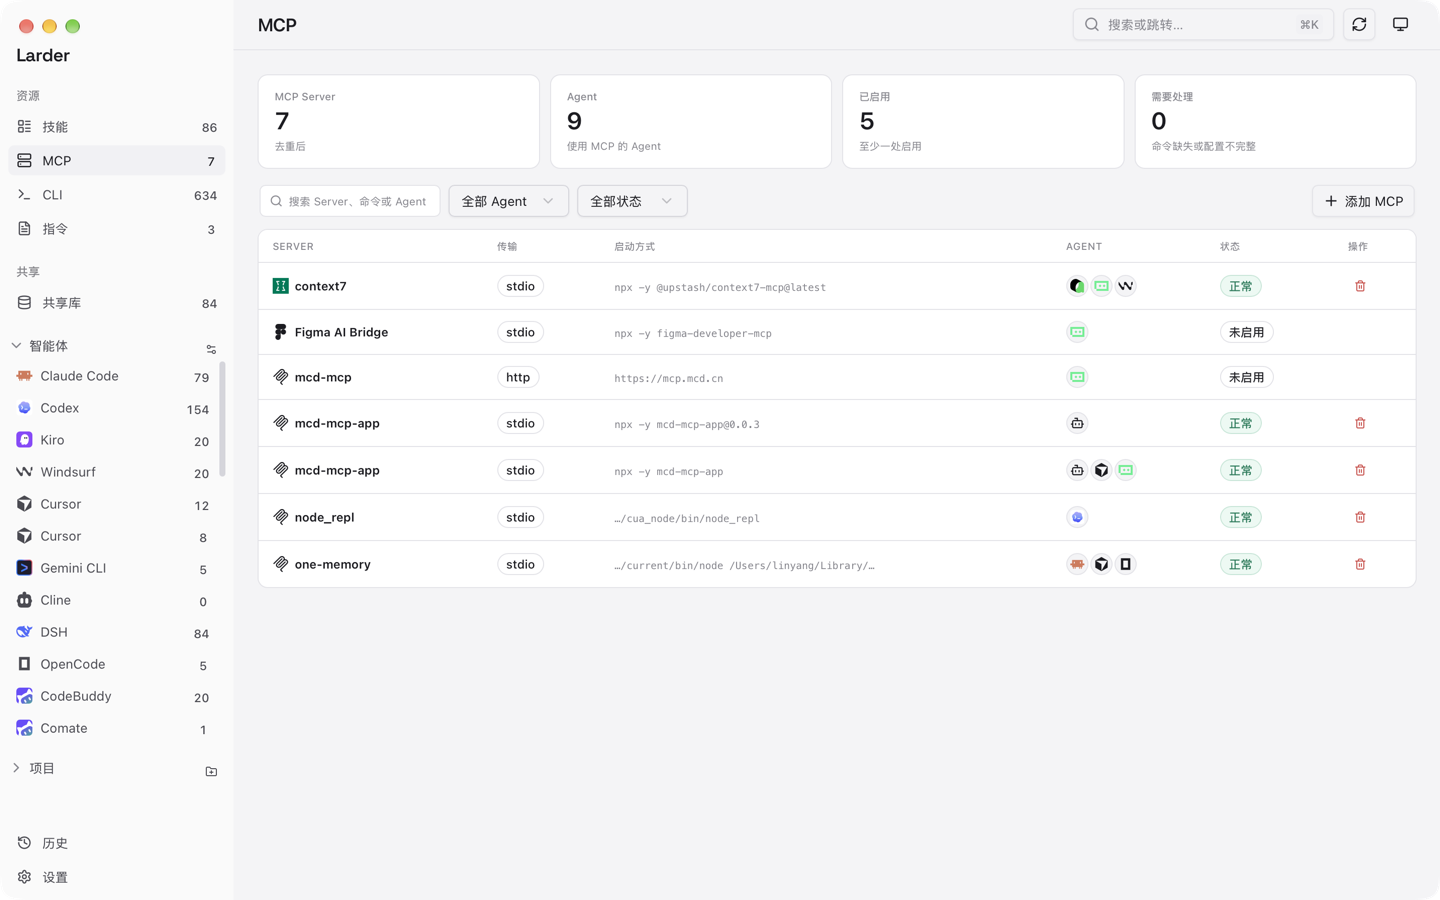
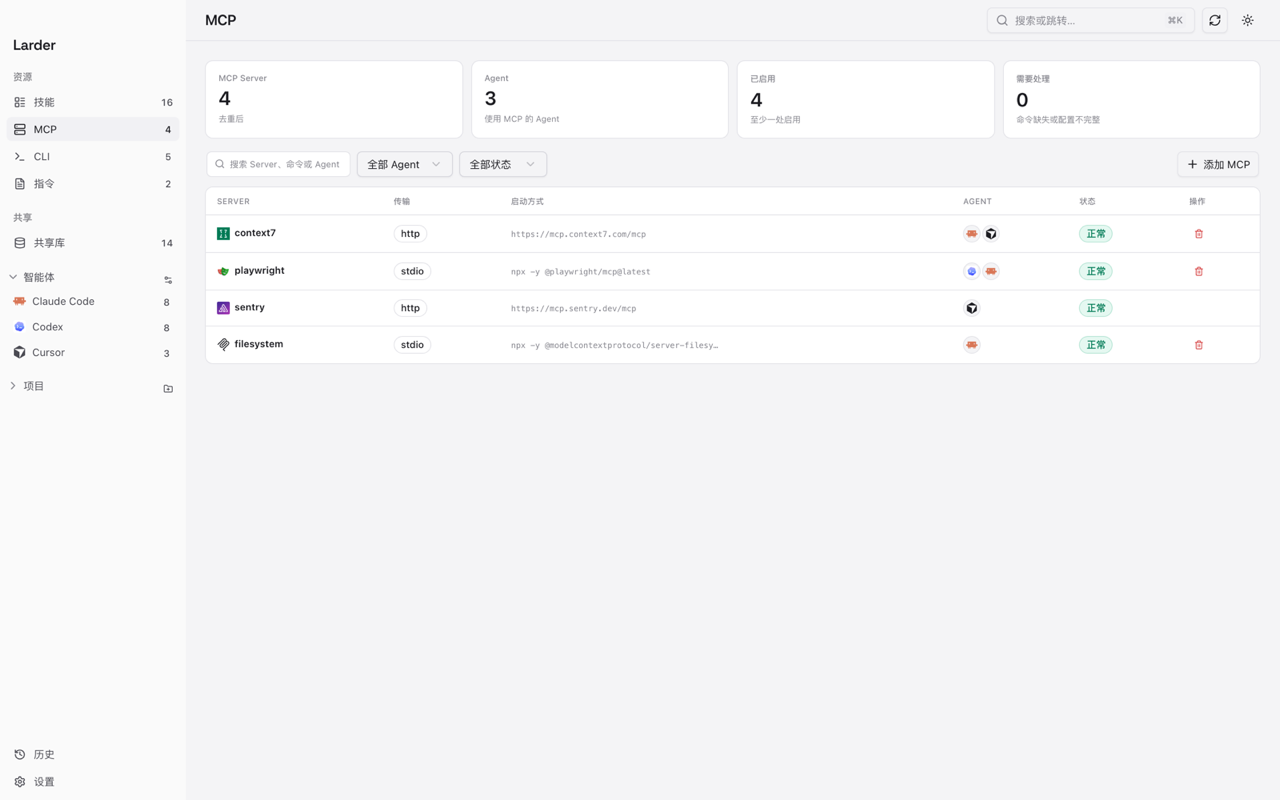
docs(readme): add compact screenshot gallery
Add English and Chinese screenshots for Skills, upstream review, Skill details, MCP, CLI, instructions, history and settings. Use a two-column gallery and keep social exports local-only.

diff --git a/README.md b/README.md
@@ -6,7 +6,7 @@
 
 Larder is a local-first desktop app for developers who work with multiple AI agents. It shows what is actually installed on your machine — Skills, MCP servers, CLI tools, and instruction files — and lets you manage them safely.
 
-![Skills overview](docs/screenshots/skills-cards-en.png)
+<p align="center"><img src="docs/screenshots/skills-cards-en.png" width="880" alt="Skills overview"></p>
 
 ## What it does
 
@@ -17,7 +17,58 @@ Larder is a local-first desktop app for developers who work with multiple AI age
 - **Projects** — see the Skills, MCP servers and instruction files that belong to a project in one place.
 - **Language** — switch between English and Chinese in Settings; the app follows the system language on first launch.
 
-![MCP overview](docs/screenshots/mcp-en.png)
+## Screenshots
+
+<table>
+<tr>
+<td width="50%" valign="top">
+<img src="docs/screenshots/skill-detail-en.png" alt="Skill detail" /><br />
+<strong>Skill detail</strong><br />
+Source, Agent visibility and the next safe action.
+</td>
+<td width="50%" valign="top">
+<img src="docs/screenshots/upstream-additions-en.png" alt="Review upstream additions" /><br />
+<strong>Review upstream additions</strong><br />
+See new Skills before installing one or a batch.
+</td>
+</tr>
+<tr>
+<td width="50%" valign="top">
+<img src="docs/screenshots/mcp-en.png" alt="MCP servers" /><br />
+<strong>MCP servers</strong><br />
+Transport, launch command, status and Agent visibility.
+</td>
+<td width="50%" valign="top">
+<img src="docs/screenshots/cli-en.png" alt="CLI tools" /><br />
+<strong>CLI tools</strong><br />
+Owners, PATH duplicates and available updates.
+</td>
+</tr>
+<tr>
+<td width="50%" valign="top">
+<img src="docs/screenshots/instructions-en.png" alt="Instruction files" /><br />
+<strong>Instruction files</strong><br />
+Scan, preview and edit global or project instructions.
+</td>
+<td width="50%" valign="top">
+<img src="docs/screenshots/history-en.png" alt="History and rollback" /><br />
+<strong>History and rollback</strong><br />
+Every write keeps a snapshot that can be restored.
+</td>
+</tr>
+<tr>
+<td width="50%" valign="top">
+<img src="docs/screenshots/skills-cards-dark-en.png" alt="Skills in dark mode" /><br />
+<strong>Light and dark</strong><br />
+Light, dark or system appearance.
+</td>
+<td width="50%" valign="top">
+<img src="docs/screenshots/settings-en.png" alt="Settings" /><br />
+<strong>Settings</strong><br />
+Language, motion, zoom and update preferences.
+</td>
+</tr>
+</table>
 
 ## Safe by default
 

diff --git a/README.zh-CN.md b/README.zh-CN.md
@@ -6,7 +6,7 @@
 
 Larder 是一个本地优先的桌面应用，面向同时使用多个 AI Agent 的开发者。它把本机真实存在的 Skills、MCP Server、CLI 和指令文件集中展示出来，并让你安全地管理它们。
 
-![Skills 页面](docs/screenshots/skills-cards-zh.png)
+<p align="center"><img src="docs/screenshots/skills-cards-zh.png" width="880" alt="Skills 页面"></p>
 
 ## 能做什么
 
@@ -17,7 +17,58 @@ Larder 是一个本地优先的桌面应用，面向同时使用多个 AI Agent 
 - **项目**：在一个页面里看到项目自己的 Skills、MCP 和指令文件。
 - **语言**：在设置中切换中文和英文；首次启动会跟随系统语言。
 
-![MCP 页面](docs/screenshots/mcp-zh.png)
+## 截图
+
+<table>
+<tr>
+<td width="50%" valign="top">
+<img src="docs/screenshots/skill-detail-zh.png" alt="Skill 详情" /><br />
+<strong>Skill 详情</strong><br />
+来源、Agent 可见性和下一步安全动作。
+</td>
+<td width="50%" valign="top">
+<img src="docs/screenshots/upstream-additions-zh.png" alt="上游新增" /><br />
+<strong>上游新增，先看再装</strong><br />
+安装前查看来源，支持单选和批量安装。
+</td>
+</tr>
+<tr>
+<td width="50%" valign="top">
+<img src="docs/screenshots/mcp-zh.png" alt="MCP 页面" /><br />
+<strong>MCP Server</strong><br />
+传输方式、启动命令、状态和 Agent 可见性。
+</td>
+<td width="50%" valign="top">
+<img src="docs/screenshots/cli-zh.png" alt="CLI 页面" /><br />
+<strong>CLI 工具</strong><br />
+所属包管理器、PATH 重复项和可用更新。
+</td>
+</tr>
+<tr>
+<td width="50%" valign="top">
+<img src="docs/screenshots/instructions-zh.png" alt="指令页面" /><br />
+<strong>指令文件</strong><br />
+扫描、预览和编辑全局或项目指令。
+</td>
+<td width="50%" valign="top">
+<img src="docs/screenshots/history-zh.png" alt="历史页面" /><br />
+<strong>历史与回滚</strong><br />
+每次写入都有快照，可查看并恢复。
+</td>
+</tr>
+<tr>
+<td width="50%" valign="top">
+<img src="docs/screenshots/skills-cards-dark-en.png" alt="暗色模式" /><br />
+<strong>亮色与暗色</strong><br />
+支持亮色、暗色和跟随系统。
+</td>
+<td width="50%" valign="top">
+<img src="docs/screenshots/settings-zh.png" alt="设置页面" /><br />
+<strong>设置</strong><br />
+语言、动效、缩放和更新偏好。
+</td>
+</tr>
+</table>
 
 ## 默认安全
 

diff --git a/docs/screenshots/README.md b/docs/screenshots/README.md
@@ -1,0 +1,18 @@
+# Screenshots
+
+Product screenshots use demo data so no local paths or Agent names are exposed.
+
+## App screenshots
+
+| File | Page |
+| --- | --- |
+| `skills-cards-en.png` / `skills-cards-zh.png` | Skills, grouped cards |
+| `skills-cards-dark-en.png` | Skills, dark appearance |
+| `skill-detail-en.png` / `skill-detail-zh.png` | Skill detail |
+| `upstream-additions-en.png` / `upstream-additions-zh.png` | Review upstream Skill additions |
+| `mcp-en.png` / `mcp-zh.png` | MCP servers |
+| `cli-en.png` / `cli-zh.png` | CLI tools |
+| `instructions-en.png` / `instructions-zh.png` | Instruction files |
+| `history-en.png` / `history-zh.png` | History and rollback |
+| `settings-en.png` / `settings-zh.png` | Settings |
+| `project-en.png` | Project overview |
